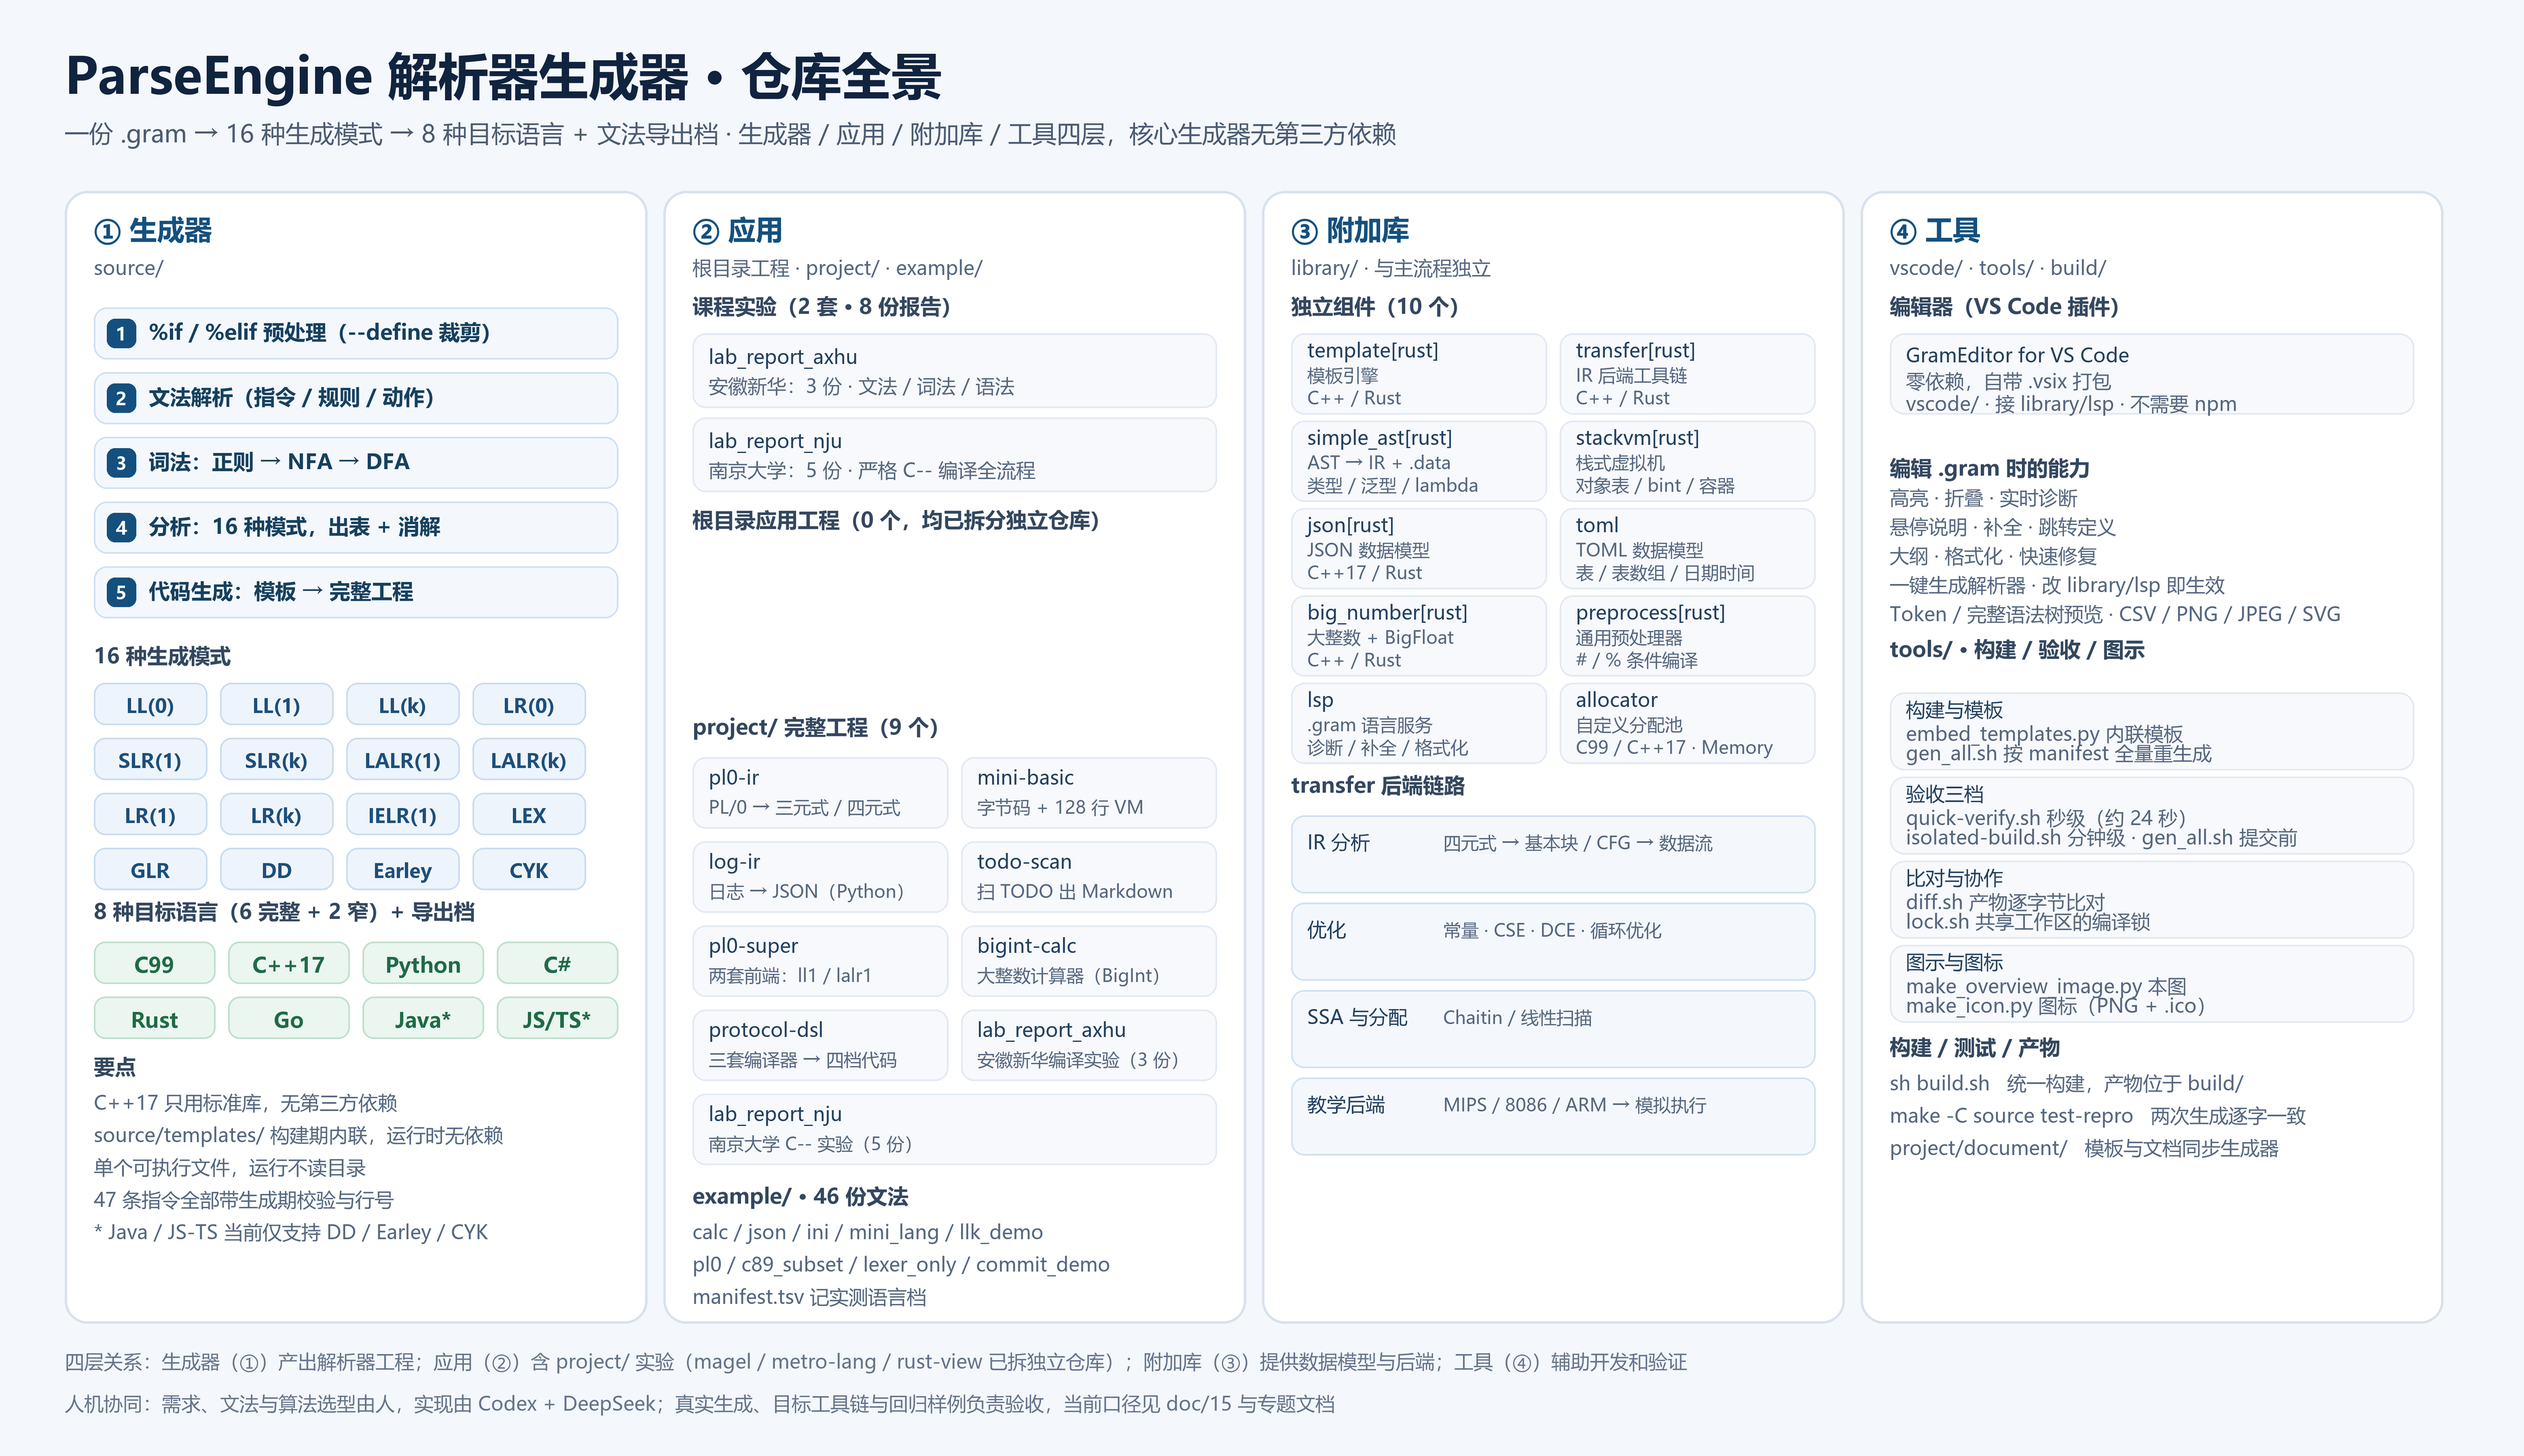
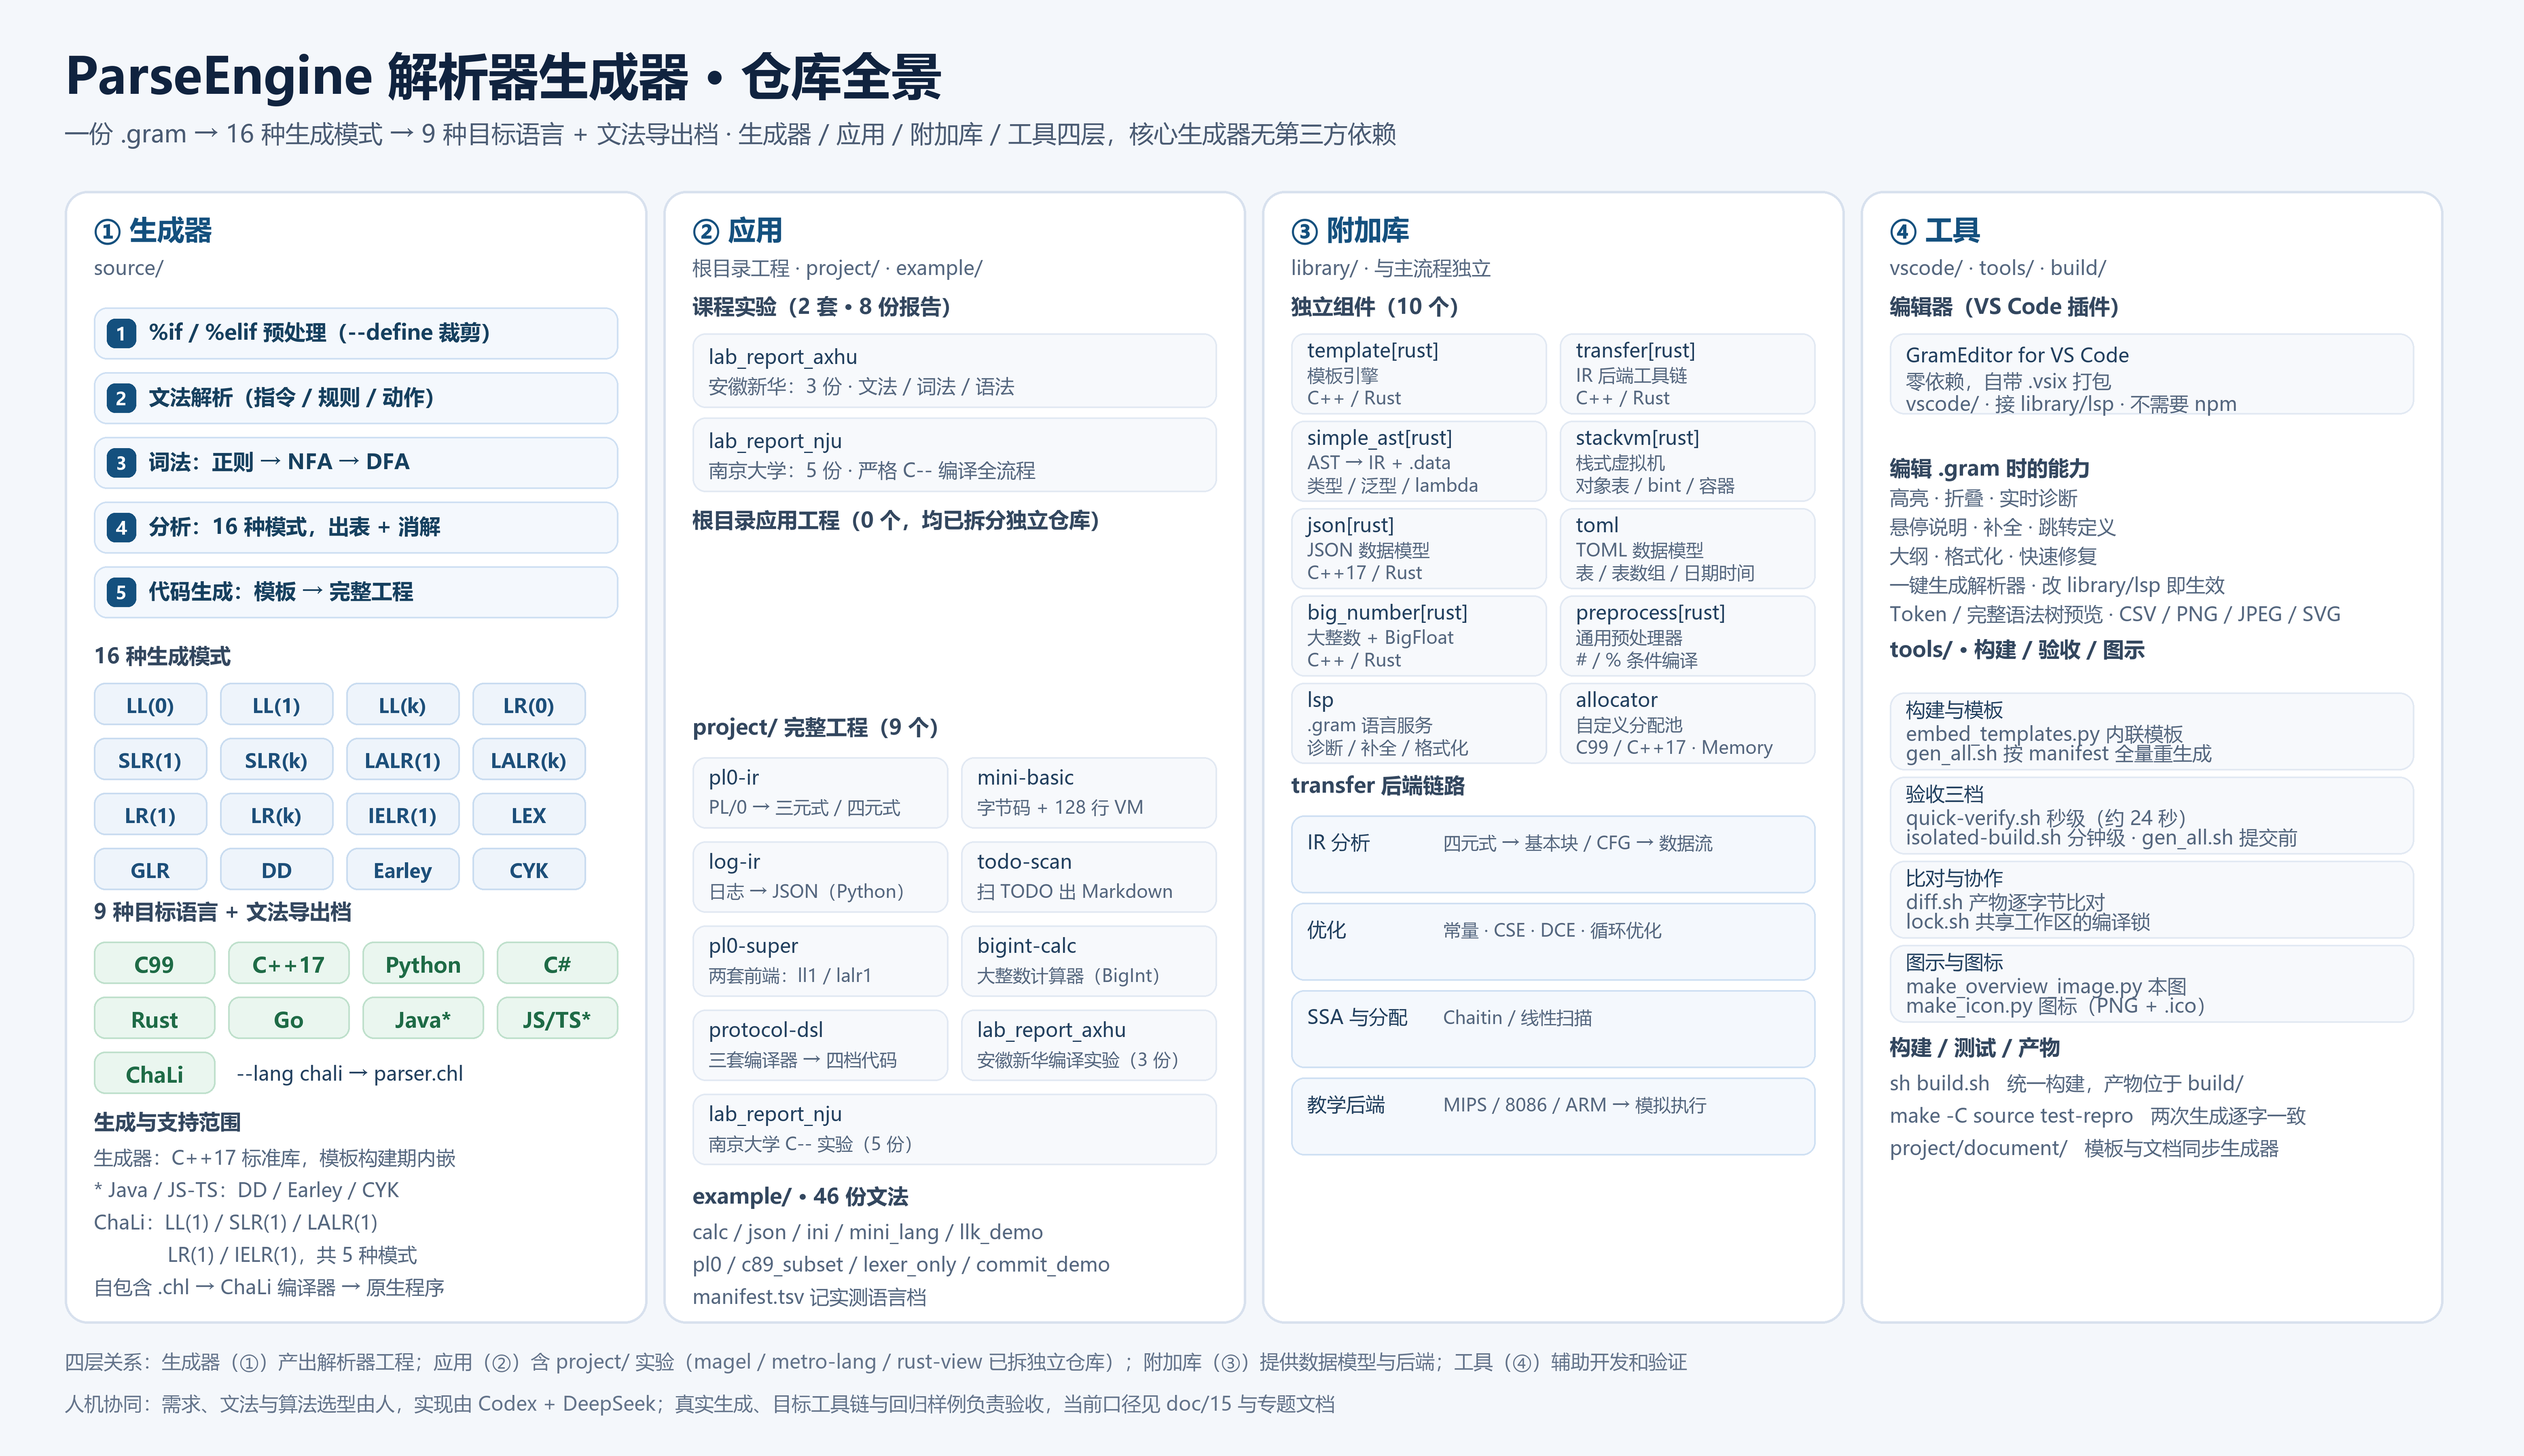
补充 README 与总览图中的 ChaLi 代码生成说明

Changed region(s): [[0.0312, 0.7156, 0.1872, 0.9022], [0.0936, 0.6222, 0.1872, 0.6533], [0.156, 0.7156, 0.1872, 0.7467]]

diff --git a/tools/make_overview_image.py b/tools/make_overview_image.py
@@ -231,7 +231,7 @@ def build() -> Canvas:
     # ---------- 标题 ----------
     c.text(40, 58, "ParseEngine 解析器生成器 · 仓库全景", f_h1, TITLE)
     c.text(40, 88,
-           "一份 .gram → 16 种生成模式 → 8 种目标语言 + 文法导出档 · "
+           "一份 .gram → 16 种生成模式 → 9 种目标语言 + 文法导出档 · "
            "生成器 / 应用 / 附加库 / 工具四层，核心生成器无第三方依赖",
            f_sub, SUBTITLE)
 
@@ -273,10 +273,11 @@ def build() -> Canvas:
         c.rect(cx, cy, w, chip_h, CHIP_FILL, CHIP_EDGE, radius=7)
         c.text_center(cx + w / 2, cy + 14, label, f_chip, CHIP_TEXT)
 
-    # 六个完整后端 + 两个 DD/Earley/CYK 窄后端，排成两行、每行四个。
-    c.text(x + 18, COL_TOP + 450, "8 种目标语言（6 完整 + 2 窄）+ 导出档", f_ctitle, CTITLE)
+    # 九种目标语言；ChaLi 单列第三行，并在下方标明五种支持模式。
+    c.text(x + 18, COL_TOP + 450, "9 种目标语言 + 文法导出档", f_ctitle, CTITLE)
     langs = (("C99", 0, 0), ("C++17", 1, 0), ("Python", 2, 0), ("C#", 3, 0),
-             ("Rust", 0, 1), ("Go", 1, 1), ("Java*", 2, 1), ("JS/TS*", 3, 1))
+             ("Rust", 0, 1), ("Go", 1, 1), ("Java*", 2, 1), ("JS/TS*", 3, 1),
+             ("ChaLi", 0, 2))
     lang_w = (COL_W - 36 - 3 * gap) // 4
     for label, col, row in langs:
         cx = x + 18 + col * (lang_w + gap)
@@ -284,15 +285,17 @@ def build() -> Canvas:
         c.rect(cx, cy, lang_w, chip_h, LANG_FILL, LANG_EDGE, radius=7)
         c.text_center(cx + lang_w / 2, cy + 14, label, f_lang, LANG_TEXT)
 
-    # 生成器要点
-    c.text(x + 18, COL_TOP + 546, "要点", f_ctitle, CTITLE)
+    c.text(x + 106, COL_TOP + 550, "--lang chali → parser.chl", f_code, CODE)
+
+    # 后端范围与部署方式，避免把九种语言误读为各支持十六种模式。
+    c.text(x + 18, COL_TOP + 580, "生成与支持范围", f_ctitle, CTITLE)
     for i, line in enumerate((
-            "C++17 只用标准库，无第三方依赖",
-            "source/templates/ 构建期内联，运行时无依赖",
-            "单个可执行文件，运行不读目录",
-            "47 条指令全部带生成期校验与行号",
-            "* Java / JS-TS 当前仅支持 DD / Earley / CYK")):
-        c.text(x + 18, COL_TOP + 568 + i * 20, line, f_note, NOTE)
+            "生成器：C++17 标准库，模板构建期内嵌",
+            "* Java / JS-TS：DD / Earley / CYK",
+            "ChaLi：LL(1) / SLR(1) / LALR(1)",
+            "             LR(1) / IELR(1)，共 5 种模式",
+            "自包含 .chl → ChaLi 编译器 → 原生程序")):
+        c.text(x + 18, COL_TOP + 602 + i * 20, line, f_note, NOTE)
 
     # ============================================================
     # ② 应用

diff --git a/README.en.md b/README.en.md
@@ -4,7 +4,7 @@
 
 ParseEngine generates a lexer, a parser and a buildable project from a single `.gram` grammar, together
 with an analysis report. It targets language front ends, configuration formats and teaching examples:
-**eight target languages** and **sixteen analysis modes**, with incremental APIs for C++17 and Rust.
+**nine target languages** and **sixteen analysis modes**, with incremental APIs for C++17 and Rust.
 One grammar is both the syntax definition and the documentation — declarations such as `%token`,
 `%identifier` and `%trivia` *are* the lexical rules, and productions name keywords, blocks and
 commands instead of "extracting lexemes" with one large regular expression.
@@ -38,11 +38,31 @@ command-line option see the [usage manual](doc/12-grammar-usage.md).
 | C99 | 13 modes |
 | C++17, Python, C#, Rust, Go | 16 modes each |
 | Java, JavaScript/TypeScript | DD, Earley, CYK |
+| ChaLi | LL(1), SLR(1), LALR(1), LR(1), IELR(1) |
 | `--lang gram` | Export the original grammar and the analysis report; covers all 16 modes |
 
 The sixteen modes include LL, LR, GLR, Earley, CYK, recursive-descent DD and `lex`, which emits the
 lexer only. The exact coverage, limits and the C++17 / Rust incremental APIs are governed by the
 [support matrix](doc/15-language-mode-support.md).
+
+## Generate ChaLi code
+
+Use `--lang chali` (or `%lang chali` in the grammar) to generate a self-contained
+`parser.chl` and `RESULT.md` directly from `.gram`. Run or compile it with ChaLi:
+
+```sh
+./build/bin/ParseEngine example/chali_lr1.gram --lang chali --mode ielr --out-dir build/examples/chali-parser
+chali run build/examples/chali-parser/parser.chl
+# Enter 1+(2*3) to get 7
+chali build build/examples/chali-parser/parser.chl --out build/examples/chali-parser/parser
+```
+
+Only `ll1`, `slr`, `lalr`, `lr1`, and `ielr` are supported; other modes are explicitly rejected.
+The generated parser provides `Parser::runText`, `Parser::runTokens`, and syntax-tree results.
+Semantic actions and `%code` / `%main` / `%epilogue` sections must contain ChaLi code.
+The default entry point reads one line from standard input; the default semantic value is `float64`.
+See the [ChaLi backend reference](doc/17-chali-backend.md) for APIs, directive limitations and
+regression commands, and [`chali_ll1.gram`](example/chali_ll1.gram) for an LL(1) example.
 
 ## Implementation structure
 
@@ -135,4 +155,3 @@ pools and container adapters for the `Memory` namespace), [`library/transfer`](l
 [`library/template`](library/template/README.md), [`library/json`](library/json/README.md),
 [`library/toml`](library/toml/README.md) and others — each have their own README.
 
-Native ChaLi output: `--lang chali --mode ielr` supports LL(1), SLR(1), LALR(1), LR(1), and IELR(1). See the [ChaLi backend reference](doc/17-chali-backend.md).
